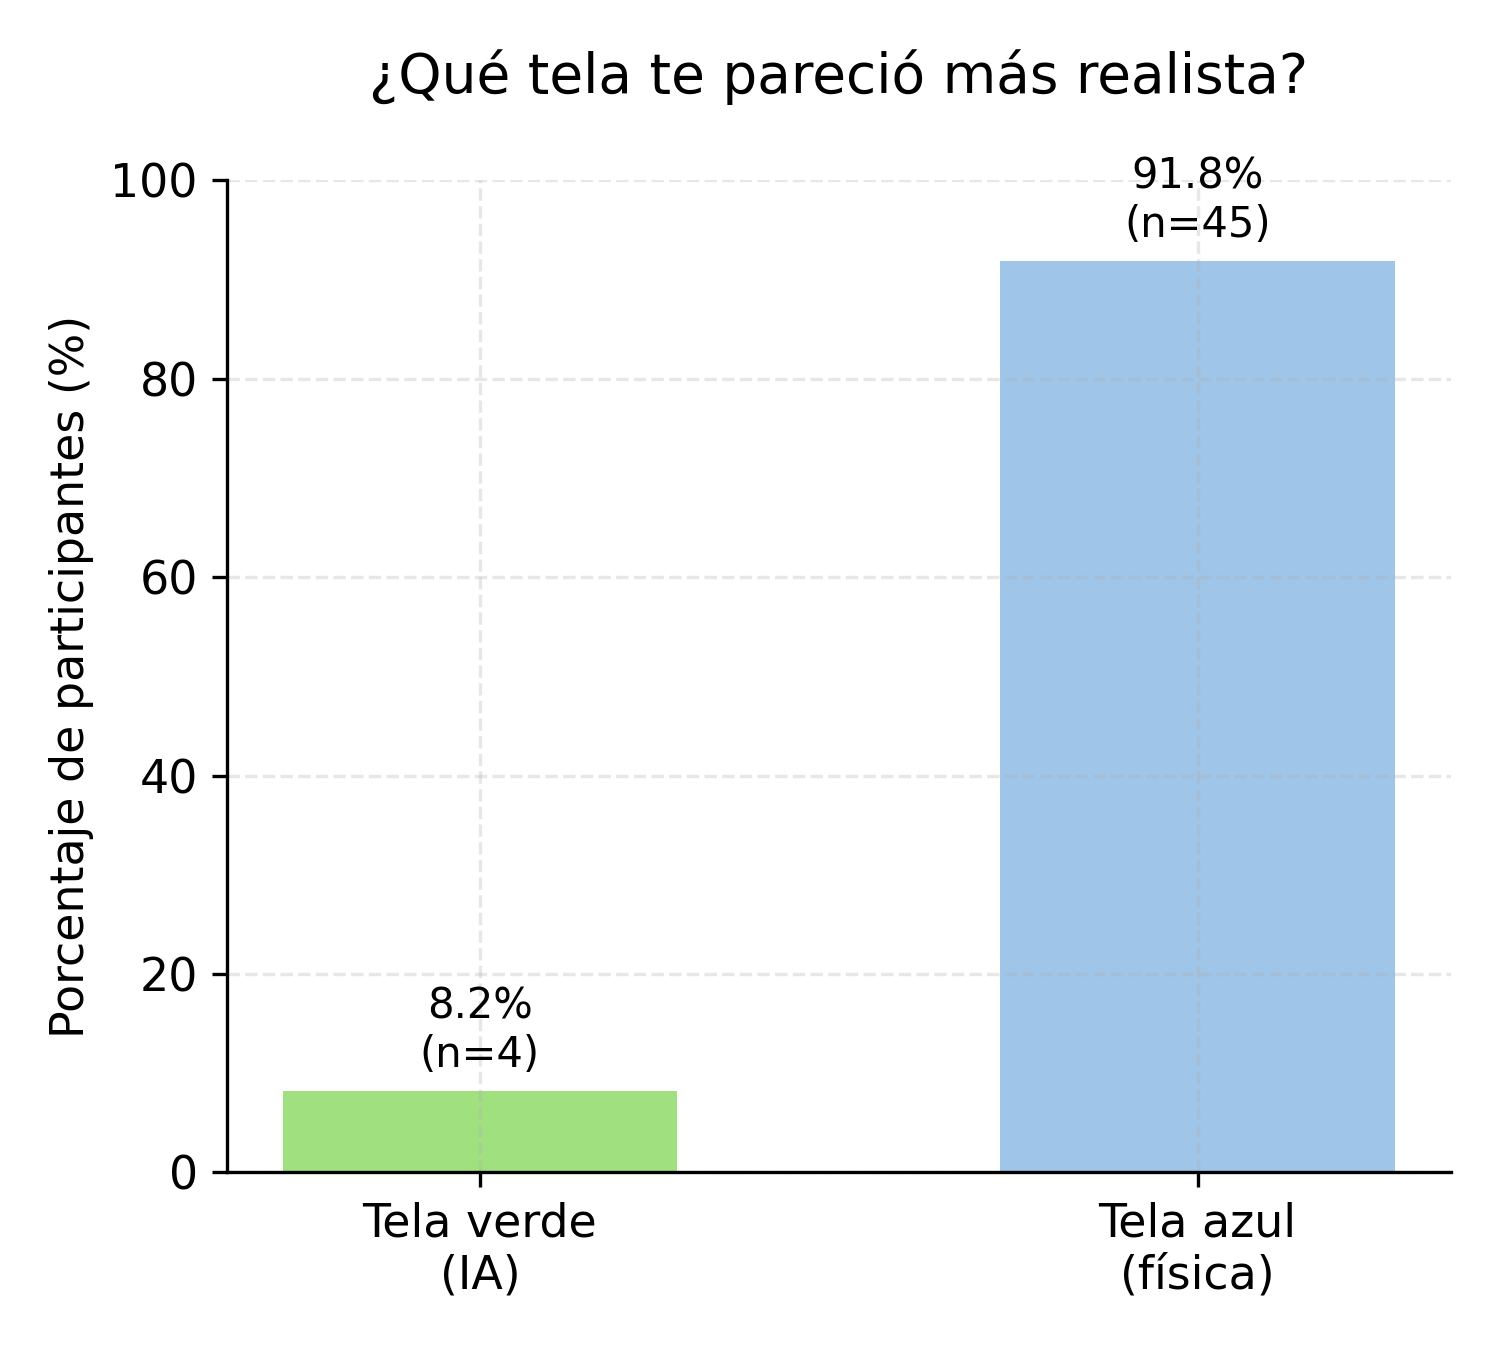
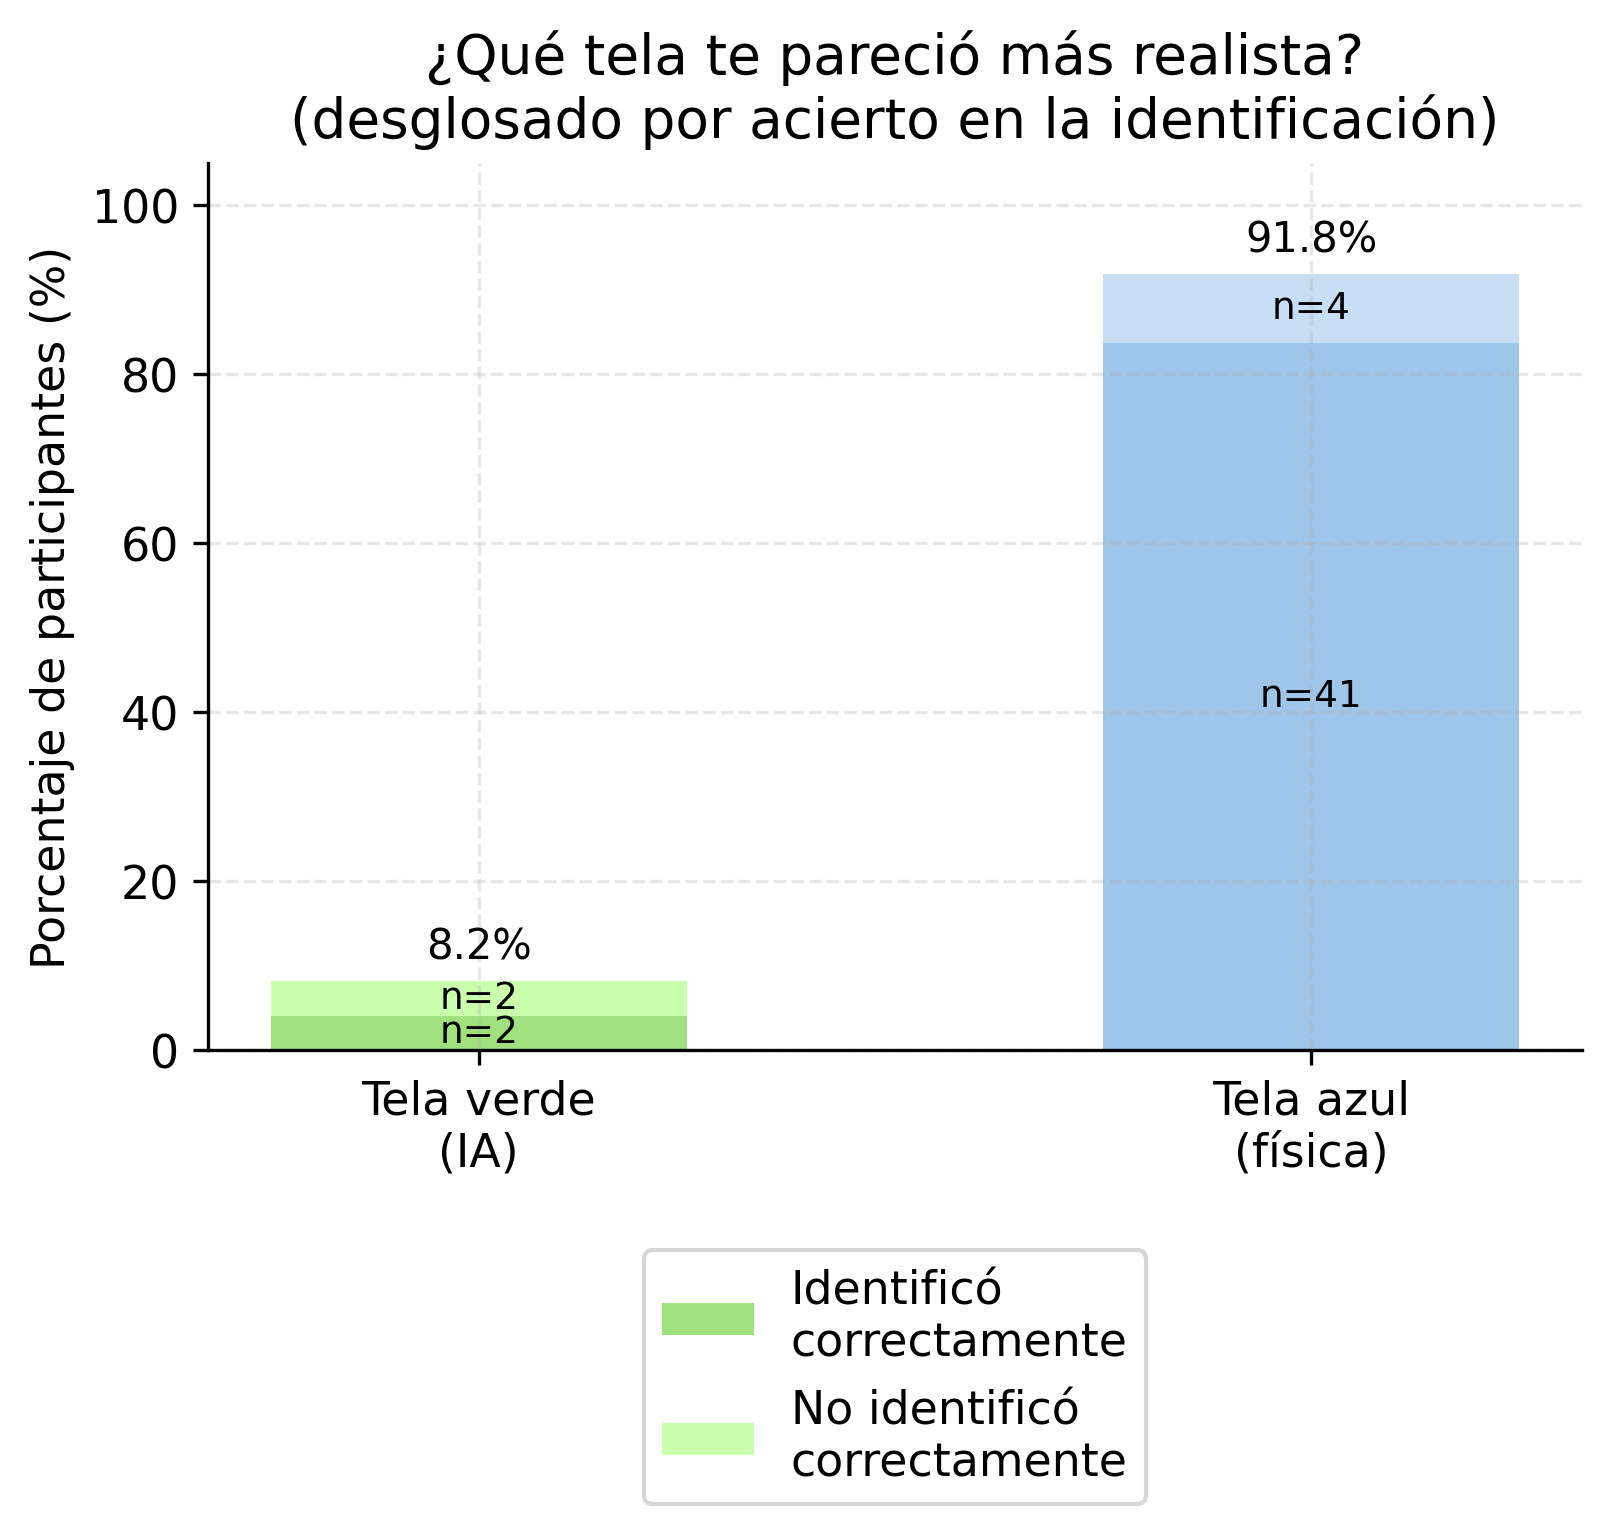
testers

Changed region(s): [[0.0, 0.0, 0.9507, 0.9956], [0.0, 0.1556, 0.0613, 0.2178], [0.7973, 0.4356, 0.828, 0.4667]]

diff --git a/Memoria/Memoria-TFG-reestructura/src/Capitulos/EvalDisc/PruebaTesters.tex b/Memoria/Memoria-TFG-reestructura/src/Capitulos/EvalDisc/PruebaTesters.tex
@@ -3,94 +3,68 @@
 
 Habiendo obtenido los resultados visuales de la inferencia, se opta por llevar a cabo unas pruebas de usuario en las que presentarlos, comparandolos con la simulación generada por el solver físico. En este capítulo se describen estas pruebas y los resultados obtenidos.
 
-\subsection{Objetivos} HACER EN PRESENTE
-El objetivo principal de estas pruebas era no solo averiguar si la animación generada por el modelo era capaz de reemplazar la del solver, sino también se quiso evaluar la naturalidad del modelo y cuales eran las características que hacian que el 
-tener una opinión subjetiva externa
-ver en que aspectos se ha acertado y en cuales
-Se han realizado \textbf{pruebas de usuario} para comprobar si los resultados obtenidos se perciben como naturales. La obtención de feedback por parte de usuarios de videojuegos podría confirmar qué aspectos de la tela se han conseguido replicar y dónde se deberían producir mejoras.
-Descubrir si tal tal 
-no exahustivo, su primer feeling about it. Ampliar la cantidad de gente que lo haría.
-Se primó la brevedad del cuestionario para maximizar la cantidad de respuestas obtenidas, ya que este fue distribuido a conocidos de las participantes del proyecto por medios electrónicos.
+\subsection{Objetivos}
+La motivación de las pruebas no reside tanto en averiguar si se ha logrado reemplazar la simulación generada por el solver de Cloth, sino más bien en evaluar la naturalidad de los resultados obtenidos con el modelo. Los objetivos principales de las pruebas son: obtener feeback externo sobre la percepción de la tela simulada, detectar qué aspectos destacan y se han conseguido replicar, y aquellos que rompen la credibilidad, en los que se tiene que priorizar la mejoría.
+
+Es crucial obtener una opinión por parte de usuarios ajenos al ámbito de físicas generadas por IA para poder evaluar con certeza el alcance del modelo actual y los siguientes pasos a realizar.
 
 \subsection{Diseño de las pruebas}
-Para la prueba se utiliza Google Forms \footnote{Software desarrollado por Google para la creación y gestión de encuestas a través de formularios digitales: \url{https://docs.google.com/forms}} por su accesibilidad para los usuarios y la facilidad para añadir contenido audiovisual, de modo que el formulario cuenta con un video en el que se visualizan las dos telas paralelamente. El cuestionario puede encontrarse en el anexo, en rasgos generales consiste con los siguientes apartados:
+Se elige realizar un cuestionario rápido y no exahustivo, con objeto de abarcar un mayor número de encuestados y obtener su percepción inicial pura. Para la prueba se utiliza Google Forms \footnote{ Software desarrollado por Google para la creación y gestión de encuestas a través de formularios digitales: \url{https://docs.google.com/forms}} por su accesibilidad para los usuarios y la facilidad para añadir contenido audiovisual, de modo que el formulario cuenta con un video en el que se visualizan las dos telas paralelamente. El cuestionario puede encontrarse en el anexo, en rasgos generales consiste con los siguientes apartados:
 
 \begin{itemize}
-\item \textit{Perfil del usuario}: Con la idea de relacionar las percepciones de los usuarios con su perfil se les pregunta a cerca de su edad, agrupada en tramos \footnote{Los tramos de edad contemplados eran: "Menos de 20", "Entre 21 y 30", "Entre 31 y 40", "Entre 41 y 50" y "Más de 51".}, y sus habitos de uso de distintos medios o contenidos audiovisuales \footnote{Los medios contemplados eran: "Televisión/Películas", "Videojuegos" y "Contenido generado por IA".}. 
-\item \textit{Identificación}: El video mencionado enseña las dos telas refiriendose a ellas como "una ha sido simulada siguiendo leyes físicas reales, otra ha sido simulada con IA". En este apartado únicamente se les pide a los usuarios identificar cada una y se les pregunta por su preferencia.
+\item \textit{Perfil del usuario}: Con la idea de relacionar las percepciones de los usuarios con su perfil se les pregunta a cerca de su edad, agrupada en tramos \footnote{ Los tramos de edad contemplados son: \enquote{Menos de 20}, \enquote{Entre 21 y 30}, \enquote{Entre 31 y 40}, \enquote{Entre 41 y 50} y \enquote{Más de 51}.}, y sus habitos de consumo de distintos medios o contenidos audiovisuales \footnote{ Los medios contemplados son: \enquote{Televisión/Películas}, \enquote{Videojuegos} y \enquote{Contenido generado por IA}.}. 
+\item \textit{Identificación}: El video mencionado enseña el funcionamiento de dos telas durante 50 segundos, refiriendose a ellas como "una ha sido simulada siguiendo leyes físicas reales, otra ha sido simulada con IA". En este apartado únicamente se les pide a los usuarios identificar cada una y se les pregunta por su preferencia en base al realismo.
 \item \textit{Opiniones}: Finalmente se revela la tela generada con nuestro modelo y se recogen las opiniones de los usuarios a cerca de ella. Se les pide valorar su realismo en una escala del 1 al 10 y ordenar las características visuales mencionadas en los experimentos en base a la calidad. Adicionalmente, se añade una sección para observaciones y comentarios.
 \end{itemize}
 
 \subsection{Resultados}
-Tras recoger 49 respuestas se concluyen los siguientes resultados. Las respuestas en la sección de identificación revelan que la inferencia no llega a XXXXXXX en una comparación lado a lado. Como se ve en el gráfico \ref{fig:identificacion} la mayoría de los encuestados son capaces de identificar la tela real. Entre los que la identifican correctamente
+Tras recoger 49 respuestas se concluyen los siguientes resultados. Las respuestas en la sección de identificación revelan que la inferencia no llega a inmitar idealmente la simulación en una comparación lado a lado. Como se ve en el gráfico \ref{fig:identificacion} la mayoría de los encuestados son capaces de identificar la tela simulada con el solver físico. Asímismo, ante la pregunta "¿Cuál te parece más realista?" la mayoría elige esta. No parece haber correlación entre la identificación y la percepción del realismo, véase en el gráfico \ref{fig:preferencia}. 
+
 \begin{figure}[H]
     \begin{minipage}{0.48\textwidth}
         \centering
         \includegraphics[width=0.8\textwidth]{Imagenes/1_identificacion_ia.png}
-        \caption{Simulación de una camiseta con componente Cloth.}
+        \caption{Distribución de la capacidad de los usuarios de identificar correctamente la simulación física y la generada con IA.}
         \label{fig:identificacion}
     \end{minipage}
     \hfill
     \begin{minipage}{0.48\textwidth}
         \centering
         \includegraphics[width=0.8\textwidth]{Imagenes/2_preferencia_realismo.png}
-        \caption{Simulación de una falda con componente Cloth.}
+        \caption{Elección de los usuarios en base al realismo de las telas. Incluye la métrica anterior, colocando los dos subgrupos de usuarios en esta división.}
         \label{fig:preferencia}
     \end{minipage}
 \end{figure}
 
-entre las personas que lo identifican tambien prefieren la otra claro 
-
-\begin{figure}[H]
-	\centering
-	\includegraphics[width=0.5\textwidth]{Imagenes/5_identificacion_vs_preferencia.png}
-	\caption{Diagrama de la arquitectura General del proyecto}
-	\label{fig:arq2}
-\end{figure}
-
-En el caso de la edad o la frecuencia con la que los usuarios consumen contenido generado por IA, la correlación con la identificación de la tela no ha sido clara.
-es interesante resaltar que entre esa gente se ve una tendencia con los jugadores de videojuegos.
-Probablemente se deba a que al contrario de las otros medios audiovisuales preguntados (Televisión/Películas o contenido generado por IA), los jugadores de videojuegos entienden mejor las interacciones físicas y están más acostrumbrados a verlas.
+En referencia a los perfiles de usuario, la edad o la frecuencia con la que consumen contenido generado por IA o televisión y cine, la correlación con la identificación de la tela no ha sido clara. Sin embargo, es interesante recalcar la tendencia entre los jugadores de videojuegos. Se infiere que, al contrario que en otros medios audiovisuales, los jugadores de videojuegos están más acostrumbrados a ver este tipo de simulaciones y entienden mejor las interacciones físicas.
 
 \begin{figure}[H]
 	\centering
 	\includegraphics[width=0.5\textwidth]{Imagenes/8_identificacion_vs_videojuegos.png}
-	\caption{Diagrama de la arquitectura General del proyecto}
-	\label{fig:arq2}
+	\caption{Identificación de la tela simulada con el modelo de ML de cada subgrupo en base a su frecuencia de uso de videojuegos.}
+	\label{fig:videojuegos}
 \end{figure}
 
-Asímiso, se ha podido identificar que la característica que más evidencia la generación por IA es el de las interacciones con colisionadores. Ante la pregunta de "Ordena las características de la tela según su calidad. Siendo la 1ª la mejor." En el orden queda consistentemente en uíltimo lugar.
+A propósito de esto, se ha podido identificar que la característica que más evidencia el modelo de ML es en efecto la interacción con colisionadores. 10 de las 22 observaciones recibidas por los encuestados mencionan explicitamente este aspecto: \enquote{\textit{...cuando la pelota se junta con la tela la traspasa en vez de moverla y eso le quita realismo...}}, \enquote{\textit{Los colisionadores de la tela fallan a la hora de interactuar con la esfera.}}, \enquote{\textit{La pelota ha atravesado la tela.}} o \enquote{\textit{El colisionador literalmente atraviesa la tela en varios momentos sin reacción.}} son algunos de los más significativos. \newline
+
+Los otros rasgos pasan más desapercibidos, siendo el movimiento por inercia el mejor conseguido con comentarios como \enquote{\textit{Le falta algo de dinamismo para llegar a ser mas realista, un poco mas de fluidez y naturalidad en los movimientos aunque está bastante conseguido.}}. En lo que a la geometría se refiere, algunos usuarios señalan algunos defectos como \enquote{\textit{Tras interactuar con ésta [la bola], [la tela]parece mucho más "geométrica".}} o \enquote{\textit{arriba a la derecha hace una esquina rara, en algún momento el colisionador parece desplazar las esquinas de la tela de forma anormal}}. \newline
+
+En la siguiente figura, \ref{fig:caracterOrden}, puede verse la media de las posiciones en el orden de cada factor y su desviación típica.
 
 \begin{figure}[H]
 	\centering
 	\includegraphics[width=0.5\textwidth]{Imagenes/3_ranking_caracteristicas.png}
-	\caption{Diagrama de la arquitectura General del proyecto}
-	\label{fig:arq2}
+	\caption{Características de la simulación ordenadas en base a la media de posición en la que los encuestados las posicionan. Agregadas en negro, las desviaciones típicas de cada media.}
+	\label{fig:caracterOrden}
 \end{figure}
 
-Entre las observaciones de los usuarios, 10 de los 22 mencionan:
-- cuando la pelota se junta con la tela la traspasa en vez de moverla y eso le quita realismo
-- Los colisionadores de la tela fallan a la hora de interactuar con la esfera
-- La pelota ha atravesado la tela
-- colisionador literalmente atraviesa la tela en varios momentos sin reacción
+Si bien una comparación lado a lado es una prueba exigente para valorar la naturalidad de la tela conseguida en este estudio, en el apartado de los comentarios adicionales se recibe retroalimentación muy positiva: \enquote{\textit{Me ha sorprendido lo poco que se llega a diferenciar la IA.}}, \enquote{\textit{No perquè la veritat que s’assembla moltíssim a l’altra i és difícil de veure alguna cosa que m’hagi cridat l’atenció a diferència de l’altre. / No porque la verdad que se parece muchísimo a la otra y es difícil ver algo que me haya llamado la atención al compararla.}} o \enquote{\textit{Por lo demás, diré que me ha costado ver el primer video unas tres veces para decidir que tela usaba físicas y cual usaba IA así que en mi opinión está bastante bien conseguido.}} destacan entre ellos. \newline
 
-Ante las otras características pasan más desapercibidas aunque
-- FORM PLIEGUES cuando se balancea tras interactuar con ésta, parece mucho más "geométrica"
-- CONSERV ESTRUC arriba a la derecha hace una esquina rara, en algún momento el colisionador parece desplazar las esquinas de la tela de forma anormal
-- MOV INERCIA le falta algo de dinamismo para llegar a ser mas realista, un poco mas de fluidez y naturalidad en los movimientos aunque está bastante conseguido. Con las dos telas me ha parecido que tenían inercia curiosa.
-
-Subjetividad.
-Si bien una comparación lado a lado es una prueba exigente para valorar la reproducción de la simulación física. Al preguntar a los encuestados por su opinión subjetiva, se recibe retroalimentación bastante positiva 
-Sin embargo si nos fijamos en los comentarios también encontramos otros positivos.
-- Me ha sorprendido lo poco que se llega a diferenciar la IA
-- No perquè la veritat que s’assembla moltíssim a l’altra i és difícil de veure alguna cosa que m’hagi cridat l’atenció a diferència de l’altre.
-- Por lo demás, diré que me ha costado ver el primer video unas tres veces para decidir que tela usaba físicas y cual usaba IA así que en mi opinión está bastante bien conseguido.
+Igualmente, al pedir a los usuarios valorar el realismo de la tela del estudio en una escala del 1 al 10, se recogen puntuaciones adecuadas, por lo que puede concluirse que a pesar de que haya aspectos en los que puede mejorarse, recogidos para los siguentes pasos de la investigación, la naturalidad conseguida es aceptable.
 
 \begin{figure}[H]
 	\centering
 	\includegraphics[width=0.5\textwidth]{Imagenes/4_distribucion_puntuacion.png}
-	\caption{Diagrama de la arquitectura General del proyecto}
-	\label{fig:arq2}
+	\caption{Evaluación de los usuarios del realiso de la tela inferida.}
+	\label{fig:mediaOpiniones}
 \end{figure}
-
-Podemos concluir que la 

diff --git a/Memoria/Memoria-TFG-reestructura/graficos_tfg.py b/Memoria/Memoria-TFG-reestructura/graficos_tfg.py
@@ -23,6 +23,8 @@ plt.rcParams.update({
 
 COLOR_IA = "#A0E07E"     # verde -> tela IA
 COLOR_FISICA = "#9FC5E8"  # azul  -> tela física
+COLOR_IA_CLARO = "#CAFFAE"
+COLOR_FISICA_CLARO = "#C7DEF4"
 COLOR_NEUTRO = "#8BA2AE"
 COLOR_NARANJA = "#FFAB40"
 
@@ -106,6 +108,58 @@ ax.set_ylim(0, 100)
 fig.tight_layout()
 fig.savefig(f"{OUT_DIR}/2_preferencia_realismo.png", dpi=300)
 plt.close(fig)
+
+# ---------------------------------------------------------------
+# 3. Figura 2 — Preferencia de realismo, desglosada según si esa misma
+#    persona identificó correctamente la tela IA o no (mismo crosstab
+#    que la figura 5, pero visto desde el lado de la preferencia)
+# ---------------------------------------------------------------
+cross = pd.crosstab(df[col_ia], df[col_real])
+azul_real_correctos = cross.loc["Tela verde (Derecha)", "Tela azul (Izquierda)"]   # identificó bien y prefiere azul
+azul_real_incorrectos = cross.loc["Tela azul (Izquierda)", "Tela azul (Izquierda)"]  # identificó mal y prefiere azul
+verde_real_correctos = cross.loc["Tela verde (Derecha)", "Tela verde (Derecha)"]   # identificó bien y prefiere verde
+verde_real_incorrectos = cross.loc["Tela azul (Izquierda)", "Tela verde (Derecha)"]  # identificó mal y prefiere verde
+  
+labels_real = ["Tela verde\n(IA)", "Tela azul\n(física)"]
+x2 = np.arange(len(labels_real))
+width2 = 0.5
+ 
+fig, ax = plt.subplots(figsize=(5.5, 5.5))
+ 
+# Verde-preferencia: correctos abajo, incorrectos encima
+ax.bar(x2[0], verde_real_correctos / n * 100, width2, color=COLOR_IA, label="Identificó\ncorrectamente")
+ax.bar(x2[0], verde_real_incorrectos / n * 100, width2,
+       bottom=verde_real_correctos / n * 100, color=COLOR_IA_CLARO, label="No identificó\ncorrectamente")
+# Azul-preferencia: correctos abajo, incorrectos encima
+ax.bar(x2[1], azul_real_correctos / n * 100, width2, color=COLOR_FISICA)
+ax.bar(x2[1], azul_real_incorrectos / n * 100, width2,
+       bottom=azul_real_correctos / n * 100, color=COLOR_FISICA_CLARO)
+ 
+def etiqueta_segmento(xpos, base, alto, valor_n):
+    if alto > 1.5:
+        ax.text(xpos, base + alto / 2, f"n={valor_n}", ha="center", va="center",
+                fontsize=9, color="black")
+ 
+etiqueta_segmento(x2[0], 0, verde_real_correctos / n * 100, verde_real_correctos)
+etiqueta_segmento(x2[0], verde_real_correctos / n * 100, verde_real_incorrectos / n * 100, verde_real_incorrectos)
+etiqueta_segmento(x2[1], 0, azul_real_correctos / n * 100, azul_real_correctos)
+etiqueta_segmento(x2[1], azul_real_correctos / n * 100, azul_real_incorrectos / n * 100, azul_real_incorrectos)
+ 
+total_verde_real = (verde_real_correctos + verde_real_incorrectos) / n * 100
+total_azul_real = (azul_real_correctos + azul_real_incorrectos) / n * 100
+ax.text(x2[0], total_verde_real + 1.5, f"{total_verde_real:.1f}%", ha="center", va="bottom", fontsize=10)
+ax.text(x2[1], total_azul_real + 1.5, f"{total_azul_real:.1f}%", ha="center", va="bottom", fontsize=10)
+ 
+ax.set_xticks(x2)
+ax.set_xticklabels(labels_real)
+ax.set_ylabel("Porcentaje de participantes (%)")
+ax.set_title("¿Qué tela te pareció más realista?\n(desglosado por acierto en la identificación)")
+ax.set_ylim(0, 105)
+ax.legend(loc="upper center", bbox_to_anchor=(0.5, -0.2), ncol=1)
+fig.tight_layout()
+fig.savefig(f"{OUT_DIR}/2_preferencia_realismo.png", dpi=300, bbox_inches="tight")
+plt.close(fig)
+
 
 # ---------------------------------------------------------------
 # 4. Figura 3 — Ranking medio por característica (con desviación típica)

diff --git a/Memoria/Memoria-TFG-reestructura/src/Capitulos/ArquitecturaSolucion/EntrenamientoPython.tex b/Memoria/Memoria-TFG-reestructura/src/Capitulos/ArquitecturaSolucion/EntrenamientoPython.tex
@@ -149,7 +149,7 @@ No obstante, en el caso de esta investigación se estudiará una loss basada en 
     \item \textit{LossVel}: Compara la velocidad predicha con la real, entendiendola como desplazamiento por frame.
 \end{itemize}
 
-Sin embargo, el objetivo de aplicar esta técnica no se trata únicamente de afinar las predicciones del modelo, sino también de hacer que el modelo aprenda a corregirse. Para ello se altera el calculo de \textit{LossPos}. En vez de calcular las posiciónes absolutas, se compara el desplazamiento inferido con el desplazamiento necesario para llegar a la posición real tras los pasos de unfolding. Aunando los valores reales con los predichos, se consigue reforzar en esa comparación la capacidad de corregirse en el mismo paso.
+Sin embargo, el objetivo de aplicar esta técnica no se trata únicamente de afinar las predicciones del modelo, sino también de hacer que el modelo aprenda a corregirse. Para ello se altera el calculo de \textit{LossPos}. En vez de calcular las posiciones absolutas, se compara el desplazamiento inferido con el desplazamiento necesario para llegar a la posición real tras los pasos de unfolding. Aunando los valores reales con los predichos, se consigue reforzar en esa comparación la capacidad de corregirse en el mismo paso.
 
 \begin{figure}[H]
 	\centering
